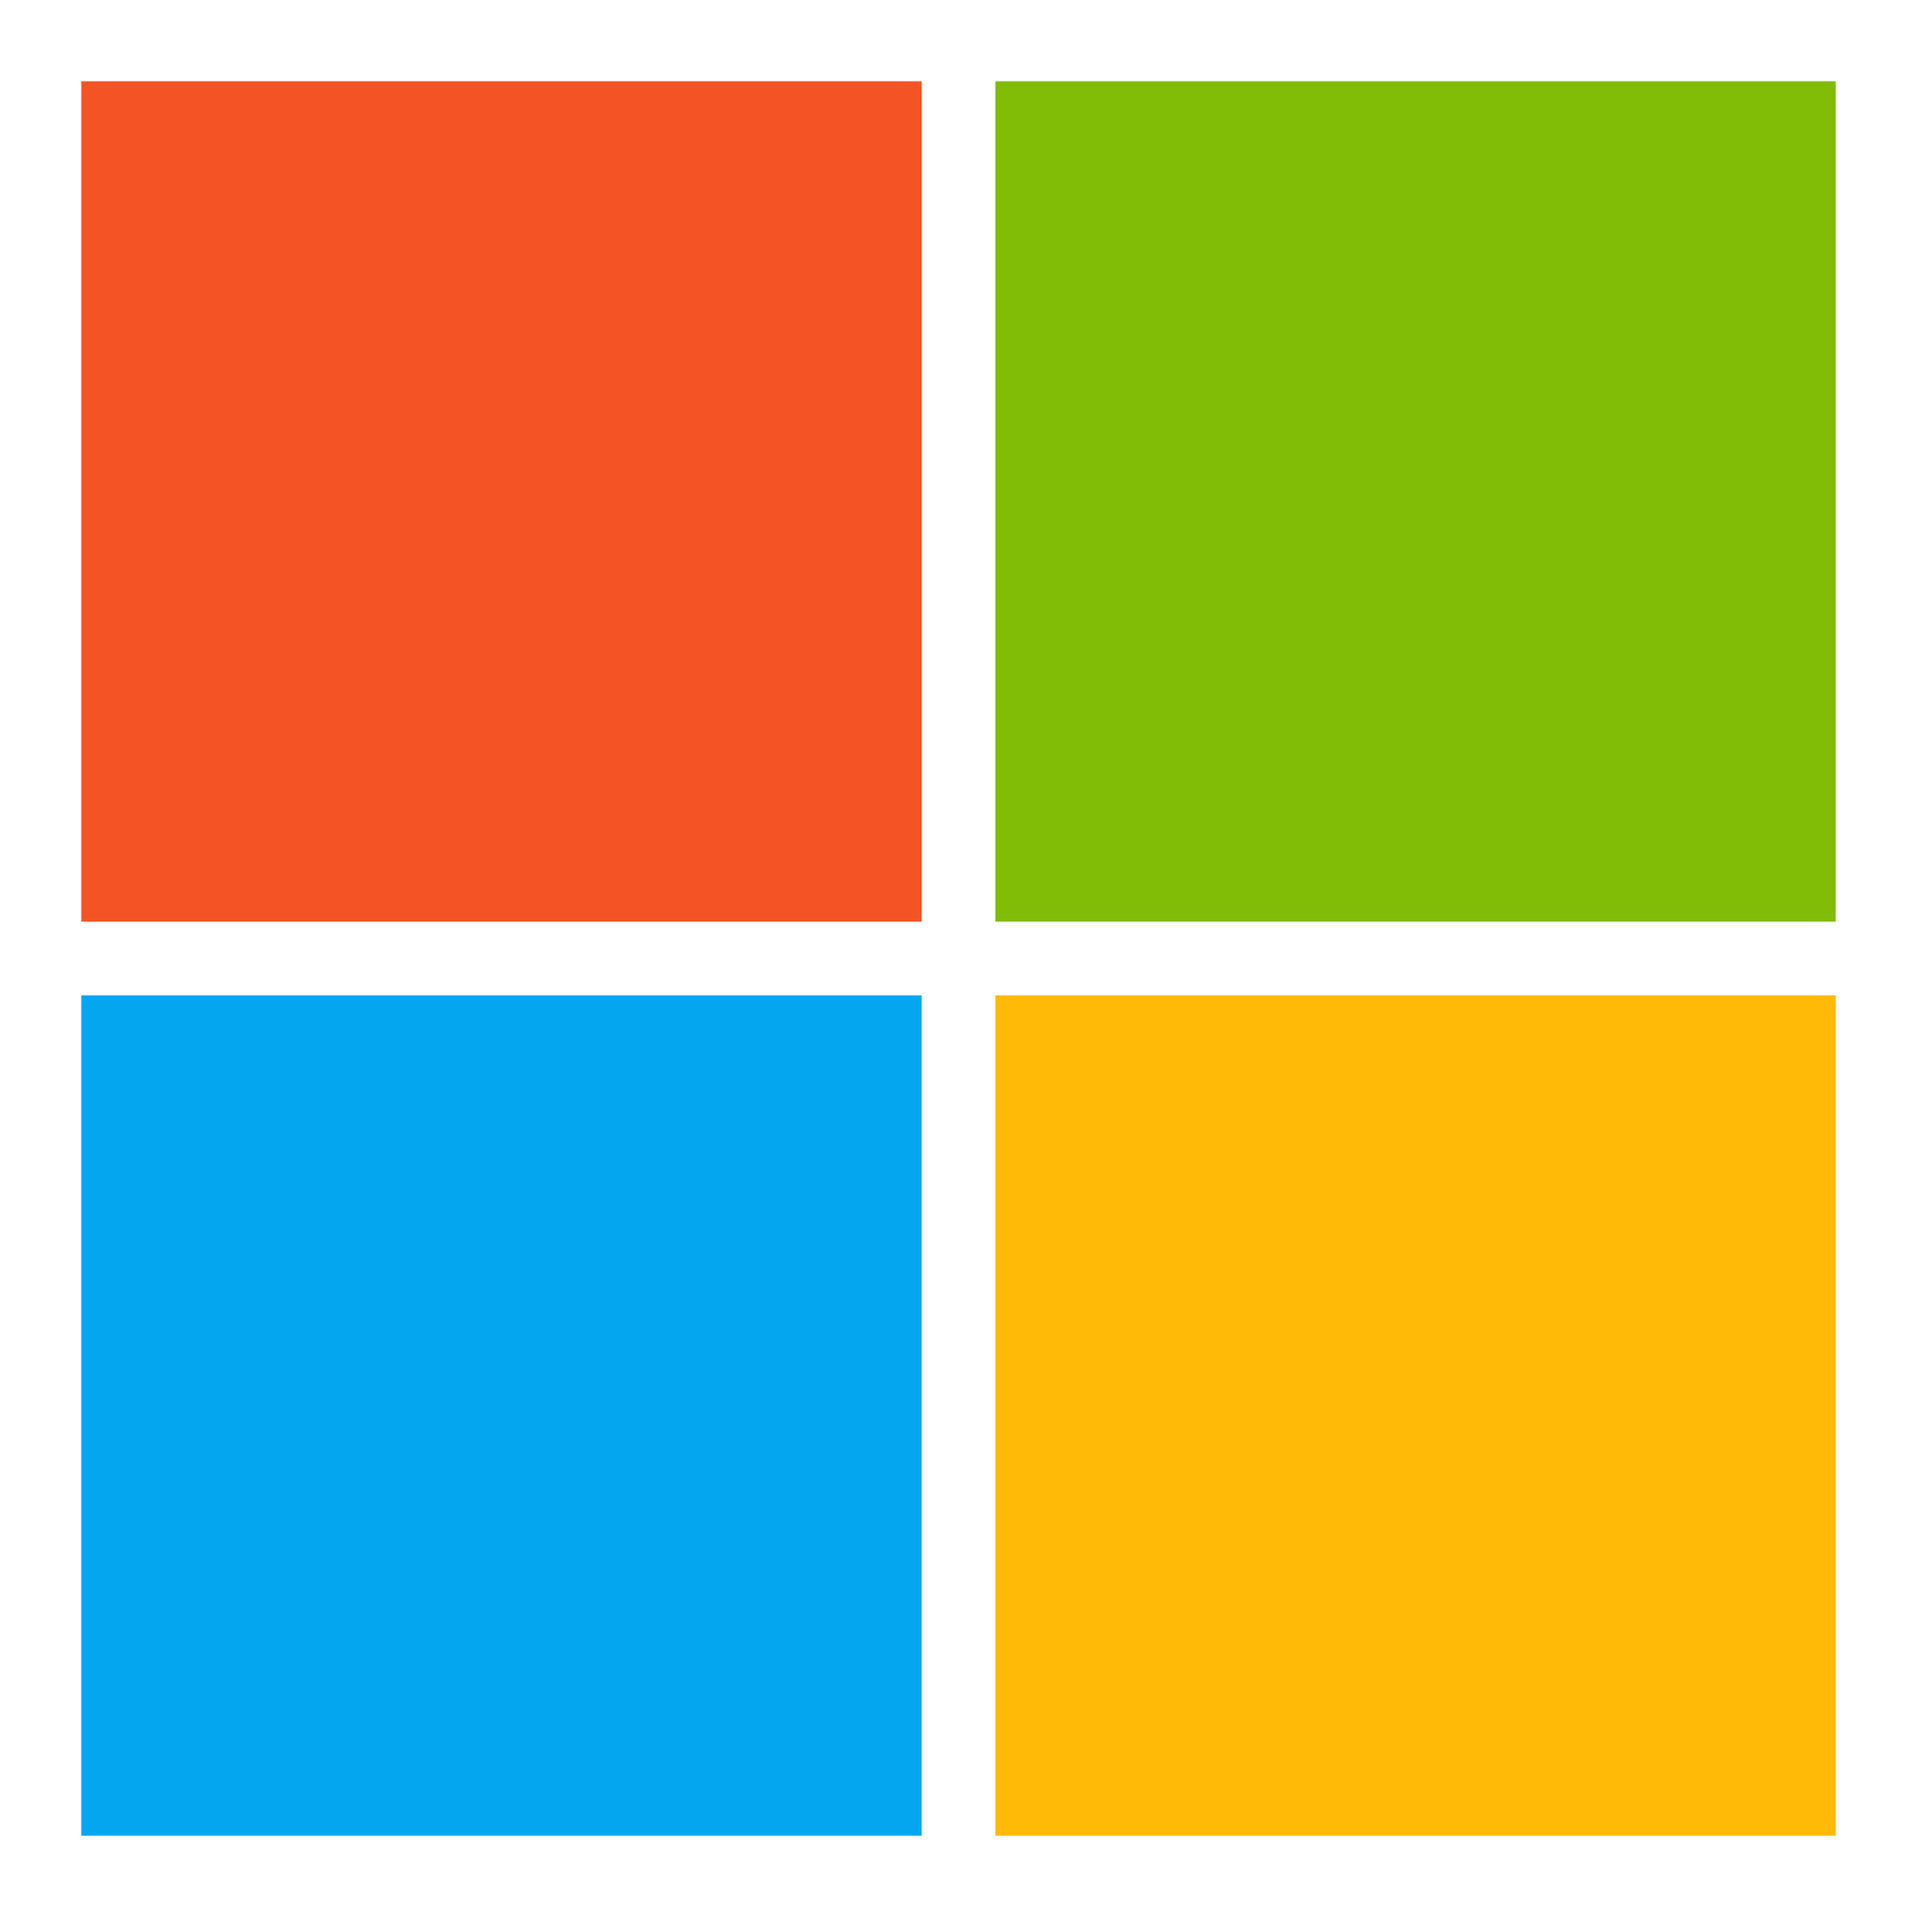
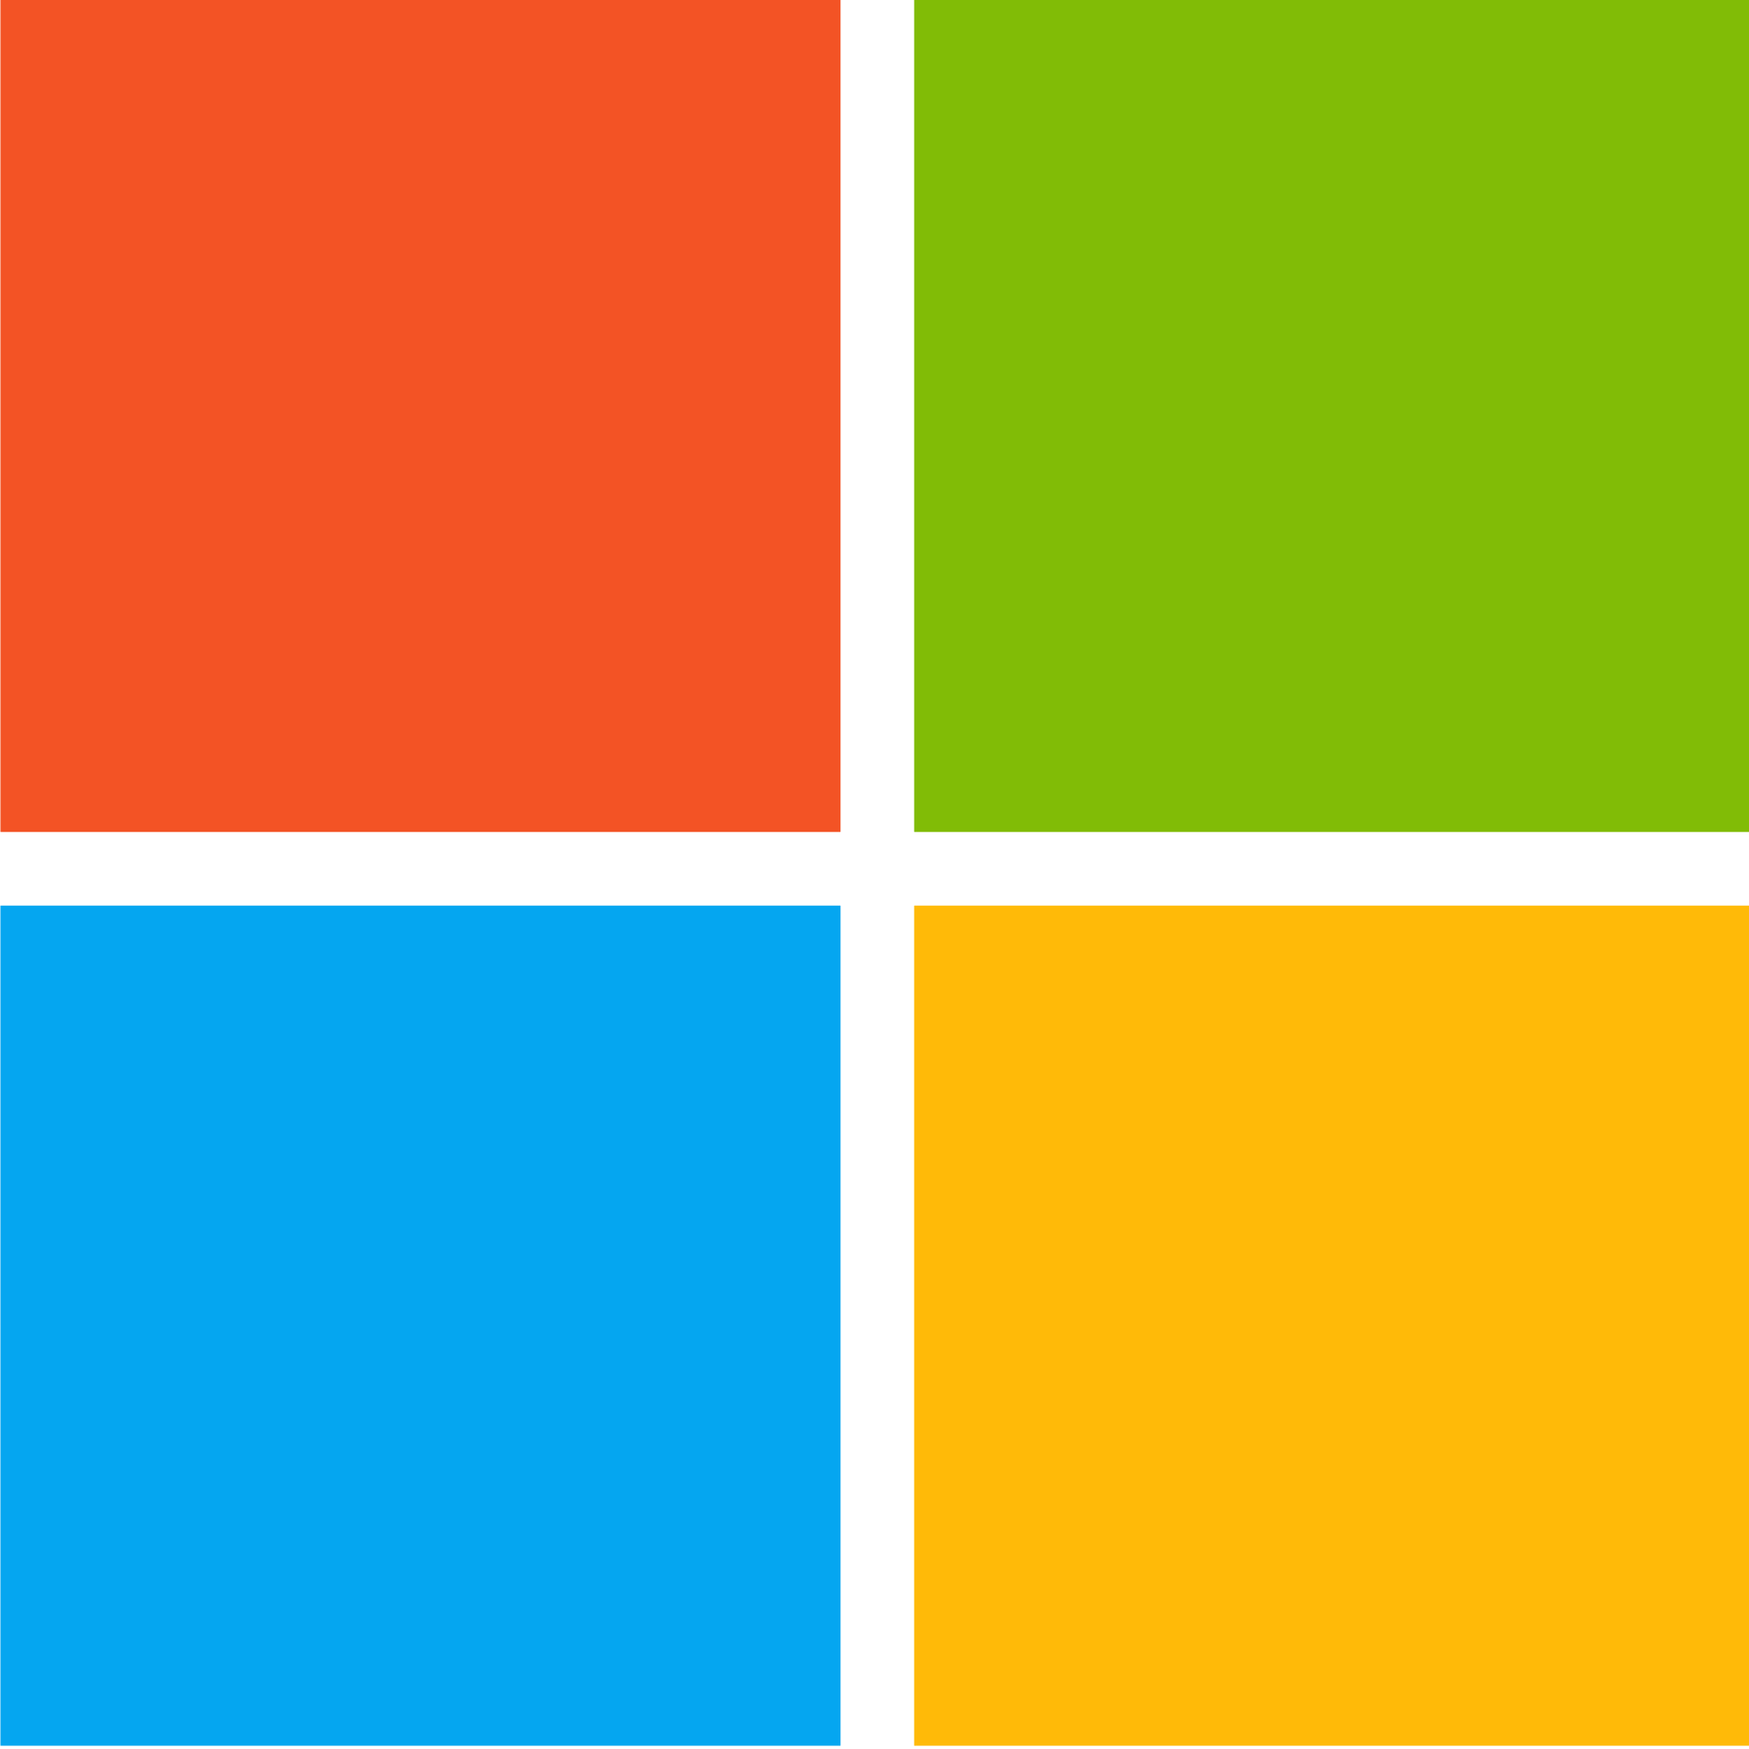
cropped placeholder image and added some randomness to starting velocity

Changed region(s): [[0.0, 0.0, 1.0, 1.0]]

diff --git a/src/main.rs b/src/main.rs
@@ -221,12 +221,11 @@ impl LoginMenu {
                                 for _line in reader.lines() {
                                     let mut progress_copy = progress_copy.lock().expect("Could not unwrap progress");
                                     *progress_copy += 1;
-                                    // println!("line: {:?}", line);
                                     std::thread::sleep(Duration::from_millis(1));
                                 }
 
                                 let mut progress_copy = progress_copy.lock().expect("Could not unwrap progress");
-                                *progress_copy = DEP_COUNT;
+                                *progress_copy = -1;
                             });
                     
                             self.content = Status::Loading;
@@ -280,7 +279,7 @@ impl LoginMenu {
                 match self.content {
                     Status::Loading => {
                         self.progress_int = *progress_count;
-                        if self.progress_int >= DEP_COUNT {
+                        if self.progress_int == -1 {
                             let saver_path = self.build_dir.clone().join(Path::new("target/release/spotify_screensaver").with_extension("exe"));
                             let  output_path: PathBuf = self.output_dir.clone().join(Path::new("spotify_screensaver").with_extension("scr"));
 

diff --git a/spotify_screensaver/src/main.rs b/spotify_screensaver/src/main.rs
@@ -4,6 +4,7 @@ use std::sync::{mpsc, Arc};
 use bytes::Bytes;
 use nannou::prelude::*;
 use tokio::sync::Mutex;
+use rand::Rng;
 
 use crate::spotify::SpotifyUser;
 mod spotify;
@@ -46,13 +47,17 @@ fn model(app: &App) -> Model {
     let img_path = assets.join("images").join("placeholder.png");
     let texture = wgpu::Texture::from_path(app, img_path).expect("Failed to load");
     let client = SpotifyUser::new();
+    let rand_x = rand::thread_rng().gen_bool(0.5);
+    let rand_y = rand::thread_rng().gen_bool(0.5);
+
+    
     
     Model {
         x: 0.0,
         y: 0.0,
         last_time: 0.0,
-        x_sign: 1.0,
-        y_sign: 1.0,
+        x_sign: if rand_x {1.0} else {-1.0},
+        y_sign: if rand_y {1.0} else {-1.0},
         texture: texture,
         img_recieve,
         img_send,
